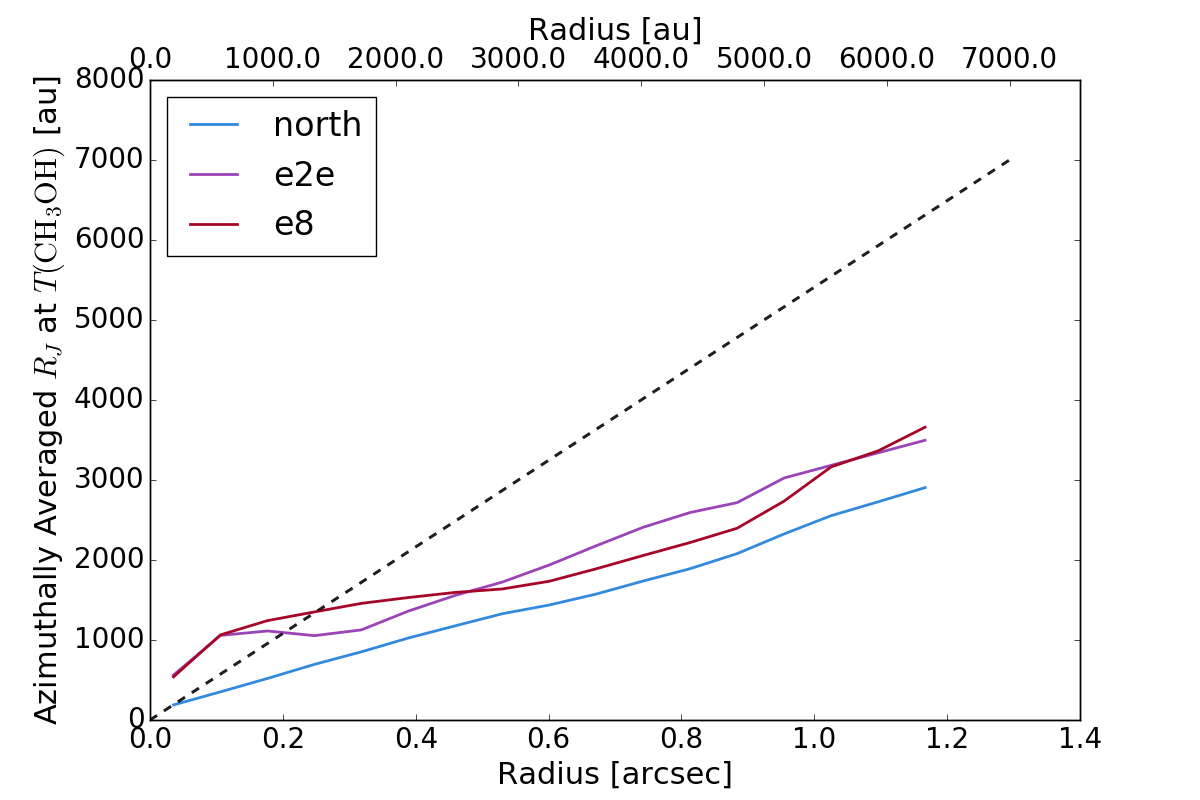
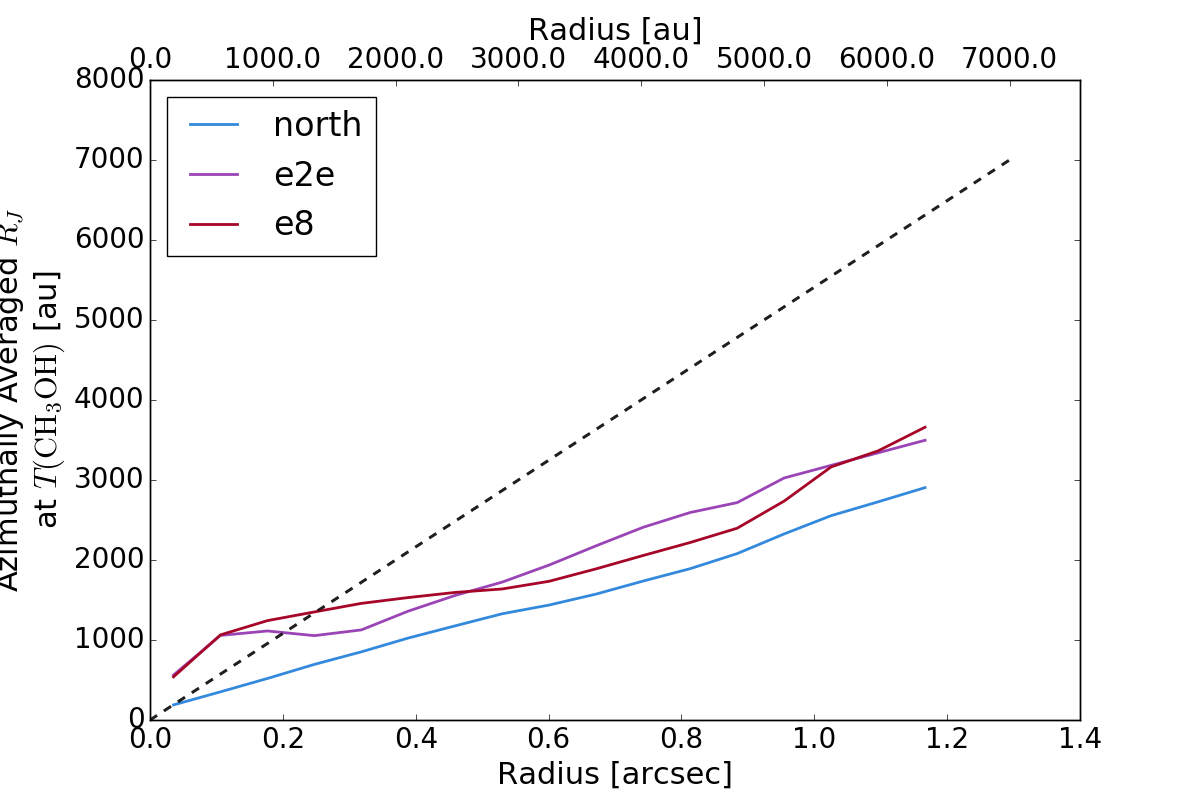
text updates.  Trying to break out of the wrongness of Jeans analysis...

Changed region(s): [[0.0, 0.0938, 0.0617, 0.9062]]

diff --git a/analysis/radial_profiles.py b/analysis/radial_profiles.py
@@ -15,6 +15,7 @@ import itertools
 import masscalc
 import dust_emissivity
 import reproject
+from label_lines import labelLine
 
 ffiles = """
 selfcal_allspw_mfs.image.pbcor.fits
@@ -271,7 +272,7 @@ def make_rprof(regions, ploteach=False):
 
         pl.figure(nplots*3+5)
         pl.semilogy(angular_radii, azimuthal_average_density_40K, label=name)
-        pl.ylabel("Azimuthally Averaged Density at T=40K [cm$^{-3}$]")
+        pl.ylabel("Azimuthally Averaged Density\nat T=40K [cm$^{-3}$]")
         pl.xlabel("Radius [arcsec]")
         if len(names) < 5:
             pl.legend(loc='best')
@@ -313,7 +314,7 @@ def make_rprof(regions, ploteach=False):
 
         pl.figure(nplots*3+6)
         pl.semilogy(angular_radii, azimuthal_average_MJ_40k, label=name)
-        pl.ylabel("Azimuthally Averaged $M_J$ at $T=40$K")
+        pl.ylabel("Azimuthally Averaged $M_J$\nat $T=40$K")
         pl.xlabel("Radius [arcsec]")
         if len(names) < 5:
             pl.legend(loc='best')
@@ -459,7 +460,7 @@ def make_rprof(regions, ploteach=False):
         # WRONG         alpha=0.75, color=line.get_color())
         #pl.plot(rr_map*pixscale*3600., mass_map, 'k.', alpha=0.25)
         pl.axis([0,1.2,0.0,5.0])
-        pl.ylabel("Azimuthally Averaged $M_J$ at $T(\\mathrm{CH}_3\\mathrm{OH})$ [$M_\\odot$]")
+        pl.ylabel("Azimuthally Averaged $M_J$\nat $T(\\mathrm{CH}_3\\mathrm{OH})$ [$M_\\odot$]")
         pl.xlabel("Radius [arcsec]")
         if len(names) < 5:
             pl.legend(loc='best')
@@ -536,7 +537,7 @@ def make_rprof(regions, ploteach=False):
         pl.plot([0,(7000*u.au/masscalc.distance).to(u.arcsec,
                                                     u.dimensionless_angles()).value],
                 [0,7000], 'k--', alpha=0.5)
-        pl.ylabel("Azimuthally Averaged $R_J$ at $T(\\mathrm{CH}_3\\mathrm{OH})$ [au]")
+        pl.ylabel("Azimuthally Averaged $R_J$\nat $T(\\mathrm{CH}_3\\mathrm{OH})$ [au]")
         pl.xlabel("Radius [arcsec]")
         pl.ylim(0,8000)
         if len(names) < 5:
@@ -575,7 +576,7 @@ def make_rprof(regions, ploteach=False):
 
         pl.figure(nplots*3+12)
         pl.semilogy(angular_radii, azimuthal_average_density, label=name)
-        pl.ylabel("Azimuthally Averaged Density at T=T(CH$_3$OH) [cm$^{-3}$]")
+        pl.ylabel("Azimuthally Averaged Density\nat T=T(CH$_3$OH) [cm$^{-3}$]")
         pl.xlabel("Radius [arcsec]")
         if len(names) < 5:
             pl.legend(loc='best')
@@ -590,17 +591,61 @@ def make_rprof(regions, ploteach=False):
         if ii == len(names) - 1:
             ax = pl.gca()
             ax.set_ylim(1e6, 2e9)
+            ax.set_xlim(0,1.2)
             ax2 = ax.twiny()
-            #ax3 = ax.twinx()
             def tick_function(old_x):
                 newx = (old_x*u.arcsec*masscalc.distance).to(u.au, u.dimensionless_angles()).value
                 return ["%.1f" % z for z in newx]
-            new_tick_locations = np.arange(0,8000,1000)*u.au
+            new_tick_locations = np.arange(0,7000,1000)*u.au
             new_tick_locs_as = (new_tick_locations/masscalc.distance).to(u.arcsec, u.dimensionless_angles())
             ax2.set_xlim(ax.get_xlim())
             ax2.set_xticks(new_tick_locs_as.value)
             ax2.set_xticklabels(tick_function(new_tick_locs_as.value))
             ax2.set_xlabel(r"Radius [au]")
+
+            ax3 = ax.twinx()
+            def tick_function(old_x):
+                newx = ((constants.G * 2.8*u.Da * (old_x*u.cm**-3))**-0.5).to(u.kyr).value
+                return ["%.1f" % z for z in newx]
+            new_tick_locations = [1.3,1.5,2,3,5]*u.kyr
+            new_tick_locs_dens = ((new_tick_locations**2 * constants.G *
+                                   2.8*u.Da)**-1).to(u.cm**-3)
+            ax3.set_ylim(ax.get_ylim())
+            ax3.set_yticks(new_tick_locs_dens.value)
+            ax3.set_yticklabels(tick_function(new_tick_locs_dens.value))
+            ax3.set_ylabel(r"$t_{ff}$ [kyr]")
+
+            # start from 0.05 arcsec
+            xlim = u.Quantity([0.05, ax.get_xlim()[1]], u.arcsec)
+            xax_as = np.linspace(xlim[0], xlim[1], 100)
+            xax_m = (xax_as *
+                     masscalc.distance).to(u.m, u.dimensionless_angles())
+            yax_s = ((ax.get_ylim() * u.cm**-3 * 2.8 * u.Da * constants.G)**-0.5).to(u.s)
+
+            # plot 1 km/s line
+            line_1 = (((xax_m / (7.5*u.km/u.s))**2 * constants.G *
+                       2.8*u.Da)**-1).to(u.cm**-3)
+            line_2 = (((xax_m / (5*u.km/u.s))**2 * constants.G *
+                       2.8*u.Da)**-1).to(u.cm**-3)
+            line_3 = (((xax_m / (10*u.km/u.s))**2 * constants.G *
+                       2.8*u.Da)**-1).to(u.cm**-3)
+
+            line, = pl.plot(xax_as.value, line_1.value, 'k:',
+                            label='7.5 km s$^{-1}$',
+                            zorder=-10)
+            labelLine(line, 0.45, "7.5 km s$^{-1}$")
+            line, = pl.plot(xax_as.value, line_2.value, 'k:',
+                            label='5 km s$^{-1}$',
+                            zorder=-10)
+            labelLine(line, 0.6, "5 km s$^{-1}$")
+            line, = pl.plot(xax_as.value, line_3.value, 'k-.',
+                            label='10 km s$^{-1}$',
+                            zorder=-10)
+            labelLine(line, 0.7, "10 km s$^{-1}$")
+
+            #ax.set_xlim(0,1.2)
+
+
             #ax3.set_ylim(ax.get_ylim())
             #yticks_mass = np.arange(0,6000,1000)
             #yticks_Jy = yticks_mass/masscalc.mass_conversion_factor(TK=40).value
@@ -693,18 +738,18 @@ def make_rprof(regions, ploteach=False):
         pl.figure(nplots*3+15)
         pl.subplot(2,2,1)
         pl.semilogy(angular_radii, azimuthal_average_density, label=name)
-        pl.ylabel("Azimuthally Averaged Density at T=T(CH$_3$OH) [cm$^{-3}$]")
+        pl.ylabel("Azimuthally Averaged Density\nat T=T(CH$_3$OH) [cm$^{-3}$]")
         pl.subplot(2,2,3)
         pl.semilogy(angular_radii, density_profile, label=name)
-        pl.ylabel("Cumulative Average Density at T=T(CH$_3$OH) [cm$^{-3}$]")
+        pl.ylabel("Cumulative Average Density\nat T=T(CH$_3$OH) [cm$^{-3}$]")
         pl.xlabel("Radius [arcsec]")
         pl.subplot(2,2,2)
         pl.plot(azimuthal_average_density, density_profile, label=name)
         pl.plot(sorted(azimuthal_average_density.value),
                 sorted(azimuthal_average_density.value), 'k--')
-        pl.xlabel("Azimuthally Averaged Density at T=T(CH$_3$OH) [cm$^{-3}$]",
+        pl.xlabel("Azimuthally Averaged Density\nat T=T(CH$_3$OH) [cm$^{-3}$]",
                   fontsize=12)
-        pl.ylabel("Cumulative Average Density at T=T(CH$_3$OH) [cm$^{-3}$]",
+        pl.ylabel("Cumulative Average Density\nat T=T(CH$_3$OH) [cm$^{-3}$]",
                   fontsize=12)
         pl.subplot(2,2,4)
         pl.ylabel("Azimuthal / Cumulative", fontsize=12)

diff --git a/cores_and_outflows/cores_and_outflows.tex b/cores_and_outflows/cores_and_outflows.tex
@@ -1067,11 +1067,11 @@ complex chemical abundances toward these hot cores.
 
 We have not performed a detailed abundance analysis of multiple species, but we
 nonetheless suggest that these sharp-edged bubbles around the hot cores
-represent sublimation zones in which substantial quantities of grain-processed
-materials are released into the gas phase.  The relatively sharp edges likely
-reflect the particular point where the temperature exceeds the sublimation
-temperature for each species \citep{Garrod2006a}, though some species
-may appear at temperatures above or below their sublimation temperature
+represent desorption (sublimation) zones in which substantial quantities of
+grain-processed materials are released into the gas phase.  The relatively
+sharp edges likely reflect the particular point where the temperature exceeds
+the sublimation temperature for each species \citep{Garrod2006a}, though some
+species may appear at temperatures above or below their sublimation temperature
 if they are mixed into ices that have a different sublimation temperature.
 
 Most of the lines identified in the hot cores e2e, e8, and north are also
@@ -1185,16 +1185,26 @@ gave a lower limit on the total heating.
 We examined the temperature structure around the highest-mass cores in Section
 \ref{sec:temperature} and the mass structure in Section \ref{sec:radialmass}.
 We put these together to measure the Jeans mass, $M_J = (\pi / 6) c_s^3
-G^{-3/2} \rho^{-1/2}$, and length, $\lambda_J = c_s G^{-1/2} \rho^{-1/2}$, in
+G^{-3/2} \rho^{-1/2}$
+, and length, $\lambda_J = c_s G^{-1/2} \rho^{-1/2}$, 
+in
 Figure \ref{fig:mjeans}.  These plots show the \emph{radially averaged} $M_J$
-and $R_J=\lambda_J/2$, i.e., they show the Jeans mass and length if the medium
-were of uniform density and temperature at the spherical-shell-average density and
-azimuthal average temperature at each plotted radius.  \todo{Interpretation of these
-plots is not straightforward, though: if we assume the `core' is spherically symmetric,
-the intersection of our telescope beam (which is approximately cylindrical) with the
-core is nontrivial: if the core has a profile $\kappa_\rho < 3$, the observed
-mass will  exceed the spherical shell mass, while if $\kappa_\rho > 3$,
-it will be an underestimate.}
+and $R_J=\lambda_J/2$,
+i.e., they show the Jeans mass if the medium
+were of uniform density and temperature at the spherical-shell-average density
+and azimuthal average temperature at each plotted radius.
+The mass figure shows that the gas is stable on a beam size scale ($\sim1000$ AU),
+but the length figure shows that on larger scales, the gas is unstable to
+fragmentation.  However, on these larger scales, the Jeans length is about
+the same as the hot core size, and the gas density and temperature structure is
+highly non-uniform, violating the key assumptions of the Jeans analysis.  
+% \todo{Interpretation
+% of these plots is not straightforward, though: if we assume the `core' is
+% spherically symmetric, the intersection of our telescope beam (which is
+% approximately cylindrical) with the core is nontrivial: if the core has a
+% profile $\kappa_\rho < 3$, the observed mass will  exceed the spherical shell
+% mass, while if $\kappa_\rho > 3$, it will be an underestimate.}
+
 % The Jeans length
 % is comparable to the hot core size, so no fragmentation should be occurring.
 % Additionally, the Jeans mass is anywhere from 3-10$\times$ higher than the
@@ -1209,6 +1219,13 @@ it will be an underestimate.}
 % The gas throughout these MYSO cores is therefore Jeans-stable and will not
 % spontaneously fragment.
 
+% If the gas at $R\sim5000$ AU is gravitationally unstable but is infalling at a
+% speed $v \gtrsim 8 \kms$, it will reach the central core before a single
+% free-fall time has passed, implying that the material will not successfully
+% fragment.  If the exterior of the core is collapsing at such a high velocity,
+% though, the implied accretion rate is $\sim0.1$ \msun \peryr.  
+
+
 The high gas temperature therefore provides a mechanism for MYSOs to avoid
 the ``fragmentation-induced starvation'' problem discussed by
 \citet{Peters2010a,Peters2010c,Girichidis2012b}.  Apparently, stars above
@@ -1221,9 +1238,10 @@ In our data, within 6500 AU of W51 north, there is only 1 (ALMAmm35), around
 e2e there is the HII region e2w and possibly 2-3 others between 5000 and 6500
 AU, and around e8 there are none.  Admittedly, our data are not very sensitive
 in the areas immediately surrounding these cores because of dynamic
-range limitations, but the higher Jeans mass
-noted above suggests that any fragments that do exist should be more massive
-and therefore more detectable.
+range limitations, and it is not obvious that we should detect cores on such
+a bright and high-column background.  Nonetheless, the lack of compact core
+detections around the most massive sources is consistent with the interpretation
+that fragmentation is suppressed.
 
 Further fragmentation below 1000 AU is possible, e.g., as seen in NGC 6334Imm1
 \citep{Brogan2016a}.  However, in the long baseline data to be presented in a
@@ -1232,14 +1250,15 @@ observed.  A few more sources are detected toward e2e and north and many toward
 e8, but the nature of those more compact ($<200$ AU) sources suggests they are
 protostellar or stellar.  Additionally, unlike the centrally-clustered
 fragmentation seen in NGC 6334Imm1, the fragments that are detected appear
-spread out in W51.
+spread out in W51, indicating they may not be within the larger hot cores but
+somewhere else along the line of sight.
 %not really true
 % The main sources all have the majority of their flux in relatively smooth
 % structures.
 
-\Figure
+\FigureTwo
 {figures/azimuthalaverage_radial_mj_and_mbar_of_TCH3OH_massivecores.png}
-%{figures/azimuthalaverage_radial_rj_of_TCH3OH_massivecores.png}
+{figures/azimuthalaverage_radial_rj_of_TCH3OH_massivecores.png}
 {The azimuthally averaged Jeans mass surrounding the
 three most massive cores.  We used the \methanol temperature from
 \ref{sec:methanol}, Figure \ref{fig:hmradprof}b in both the Jeans mass
@@ -1286,7 +1305,7 @@ regions around each of the massive cores is that they did not.  Heating from
 previous generations of moderate mass stars could have warmed the gas,
 suppressing fragmentation into the sub-solar mass objects typical in local
 clouds until enough gas was present to collapse into a substantially larger
-object.  This toy model is analagous to the `cooperative accretion' mode
+object.  This toy model is analogous to the `cooperative accretion' mode
 suggested by \citet{Zinnecker2007a}, but at a much earlier stage in the cluster
 development when the gas is still molecular and dusty and therefore capable of
 efficient cooling.  It is also similar to the results of \citet{Krumholz2011a},
